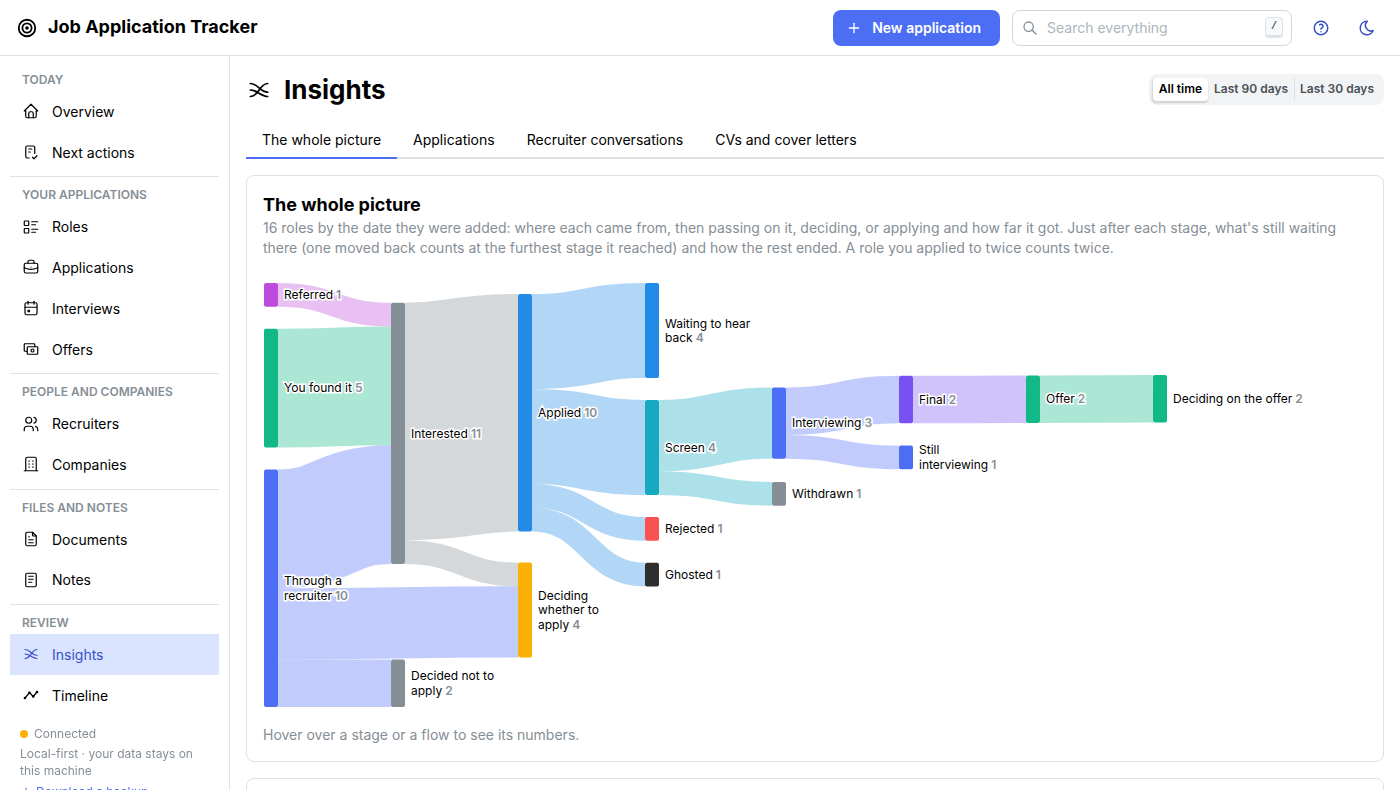
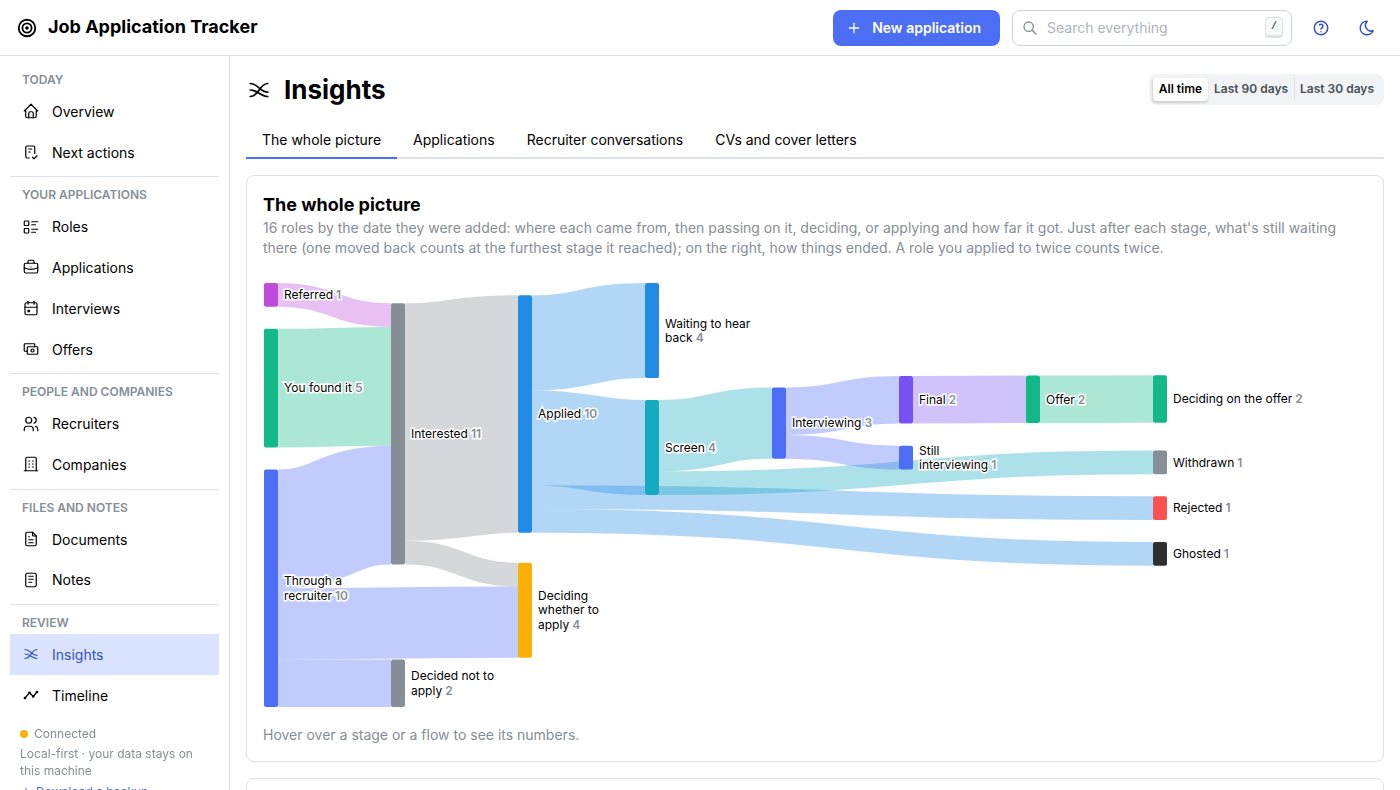
fix(insights): outcomes on the right, untangled once per diagram
Kai: "withdrawn could happen after any stage after applied ... so
perhaps that should be further out to the right". How things ended lines
up on the right again (what's waiting, and Decided not to apply, stay just
after their stage); the crossing search, which also counts flows running
through a stage, routes the long flows round the stages in between.

Review fixes: the search runs once per diagram at a nominal size (not on
every resize), tries every order only up to four nodes, and stops at 300
layouts; wrap counts the count when fitting; docs say "usually" where
the layout decides; tests for untangle, orderings, shape and wrap edges.

diff --git a/frontend/src/components/SankeyChart.tsx b/frontend/src/components/SankeyChart.tsx
@@ -16,7 +16,7 @@ const ROW_SPACE = 64; // height per node in the busiest column, so small nodes a
 const CHAR_WIDTH = 6.6; // roughly, at 12px
 
 /** How many columns the diagram has (the longest chain of links, plus one), and the most nodes in one. */
-function shape(flow: Flow): { columns: number; busiest: number } {
+export function shape(flow: Flow): { columns: number; busiest: number } {
   const depth = new Map(flow.nodes.map((n) => [n.id, 0]));
   for (let i = 0; i < flow.nodes.length; i++) {
     for (const l of flow.links)
@@ -27,16 +27,18 @@ function shape(flow: Flow): { columns: number; busiest: number } {
   return { columns: Math.max(0, ...depth.values()) + 1, busiest: Math.max(0, ...perColumn.values()) };
 }
 
-/** A label split into lines that fit in `room` pixels (the count goes on the last line). */
+/** A label split into lines that fit in `room` pixels, the count on the last line with the last
+ * word (a single word too long for the room gets a line of its own and runs over). */
 export function wrap(name: string, count: number, room: number): string[] {
+  const words = name.split(" ").filter(Boolean);
+  words.push(`${words.pop() ?? ""} ${count}`.trim()); // the count never sits alone
   const lines: string[] = [];
-  for (const word of name.split(" ")) {
+  for (const word of words) {
     const last = lines.at(-1);
     if (last !== undefined && (last.length + 1 + word.length) * CHAR_WIDTH <= room)
       lines[lines.length - 1] = `${last} ${word}`;
     else lines.push(word);
   }
-  lines[lines.length - 1] += ` ${count}`; // the count stays with the last word
   return lines;
 }
 
@@ -77,9 +79,9 @@ export function tangle(layout: Layout): number {
   return score;
 }
 
-/** Every ordering of a few items; for more, each one swapped with its neighbour. */
-function orderings<T>(items: T[]): T[][] {
-  if (items.length > 5) {
+/** Every ordering of up to four items; for more, each one swapped with its neighbour. */
+export function orderings<T>(items: T[]): T[][] {
+  if (items.length > 4) {
     return items.slice(1).map((_, i) => {
       const swapped = [...items];
       [swapped[i], swapped[i + 1]] = [swapped[i + 1]!, swapped[i]!];
@@ -92,32 +94,71 @@ function orderings<T>(items: T[]): T[][] {
   );
 }
 
+const MAX_LAYOUTS = 300; // the search stops here: a few hundred layouts take a blink
+
 /**
- * The least tangled layout we can find: starting from d3's own, try each column's nodes in
- * every order (a few sweeps across the columns), keeping whichever crosses least.
+ * The order of nodes in each column that tangles least, as far as we can find: starting from
+ * d3's own layout, try each column's nodes in other orders (a few sweeps across the columns),
+ * keeping whichever crosses least. Undefined if d3's own can't be beaten.
  */
-function untangle(build: (order?: Map<string, number>) => Layout): Layout {
-  let best = build();
-  let bestScore = tangle(best);
+export function untangle(build: (order?: Map<string, number>) => Layout): Map<string, number> | undefined {
+  const first = build();
+  let bestScore = tangle(first);
+  let best: Map<string, number> | undefined;
+  let tries = 1;
   const columns = new Map<number, string[]>();
-  for (const n of [...best.nodes].sort((a, b) => (a.y0 ?? 0) - (b.y0 ?? 0)))
+  for (const n of [...first.nodes].sort((a, b) => (a.y0 ?? 0) - (b.y0 ?? 0)))
     columns.set(Math.round(n.x0 ?? 0), [...(columns.get(Math.round(n.x0 ?? 0)) ?? []), n.id]);
   const orderOf = () => new Map([...columns.values()].flatMap((ids) => ids.map((id, i) => [id, i] as const)));
   for (let sweep = 0; sweep < 3 && bestScore > 0; sweep++) {
     let improved = false;
-    for (const [layer, ids] of [...columns]) {
+    // Left to right.
+    for (const [layer, ids] of [...columns].sort(([a], [b]) => a - b)) {
       let keep = ids;
       for (const candidate of orderings(ids)) {
+        if (tries++ >= MAX_LAYOUTS) break;
         columns.set(layer, candidate);
-        const layout = build(orderOf());
-        const score = tangle(layout);
-        if (score < bestScore) [best, bestScore, keep, improved] = [layout, score, candidate, true];
+        const order = orderOf();
+        const score = tangle(build(order));
+        if (score < bestScore) [best, bestScore, keep, improved] = [order, score, candidate, true];
       }
       columns.set(layer, keep);
     }
     if (!improved) break;
   }
   return best;
+}
+
+/** How things ended: a node nothing flows on from that isn't an active stage, somewhere things
+ * are waiting, or a role you decided against (that's a choice before applying, beside Deciding). */
+function endsOnTheRight(n: FlowNode & { sourceLinks?: unknown[] }): boolean {
+  return n.kind !== "active" && n.kind !== "holding" && n.id !== "passed" && !n.sourceLinks?.length;
+}
+
+/** The diagram laid out in `width` by `height`, in d3's own order or the one given. */
+function layoutAt(flow: Flow, width: number, height: number, order?: Map<string, number>): Layout {
+  return (
+    sankey<FlowNode, FlowLink>()
+      .nodeId((n) => n.id)
+      .nodeWidth(14)
+      .nodePadding(22)
+      // Stages by how far along they are, and what's waiting (or a role you decided against) just
+      // after the stage it came from. How things ended (Rejected, Withdrawn, Accepted…) can follow
+      // any stage, so it lines up on the right, where every stage can reach it.
+      .nodeAlign((n, columns) => (endsOnTheRight(n) ? columns - 1 : (n.depth ?? 0)))
+      // Without an order, d3 moves nodes up and down to untangle the flows itself.
+      .nodeSort(order ? (a, b) => (order.get(a.id) ?? 0) - (order.get(b.id) ?? 0) : undefined)
+      .iterations(32)
+      .extent([
+        [1, 8],
+        [width - LABEL_SPACE, height - 8],
+      ])({
+      // d3 mutates what it's given. A node is as tall as the applications that reached it,
+      // including those still there, not just the ones that flowed through.
+      nodes: flow.nodes.map((n) => ({ ...n, fixedValue: n.reached })),
+      links: flow.links.map((l) => ({ ...l })),
+    })
+  );
 }
 
 const colour = (name: string) => `var(--mantine-color-${name}-6)`;
@@ -157,30 +198,13 @@ export function SankeyChart({
   const height = Math.max(HEIGHT, busiest * ROW_SPACE);
   const [hover, setHover] = useState<string | null>(null);
 
-  const layout = useMemo(() => {
-    const build = (order?: Map<string, number>) =>
-      sankey<FlowNode, FlowLink>()
-        .nodeId((n) => n.id)
-        .nodeWidth(14)
-        .nodePadding(22)
-        // Every node one column after the furthest thing that leads to it: stages by how far
-        // along they are, and what's waiting or how it ended just after the stage it came from
-        // (Rejected from Applied beside Interviewing, not across it on the right edge).
-        .nodeAlign((n) => n.depth ?? 0)
-        // Without an order, d3 moves nodes up and down to untangle the flows itself.
-        .nodeSort(order ? (a, b) => (order.get(a.id) ?? 0) - (order.get(b.id) ?? 0) : undefined)
-        .iterations(32)
-        .extent([
-          [1, 8],
-          [width - LABEL_SPACE, height - 8],
-        ])({
-        // d3 mutates what it's given. A node is as tall as the applications that reached it,
-        // including those still there, not just the ones that flowed through.
-        nodes: flow.nodes.map((n) => ({ ...n, fixedValue: n.reached })),
-        links: flow.links.map((l) => ({ ...l })),
-      });
-    return untangle(build);
-  }, [flow, width, height]);
+  // The search for the least tangled order runs once per diagram, at a typical size (the order
+  // hardly depends on width), so resizing the window only lays it out again.
+  const order = useMemo(() => {
+    const nominal = Math.max(900, columns * 160 + LABEL_SPACE);
+    return untangle((o) => layoutAt(flow, nominal, height, o));
+  }, [flow, columns, height]);
+  const layout = useMemo(() => layoutAt(flow, width, height, order), [flow, width, height, order]);
 
   const path = sankeyLinkHorizontal();
   const hoveredLink = layout.links.find((l) => linkKey(l) === hover);

diff --git a/frontend/src/components/SankeyChart.test.tsx b/frontend/src/components/SankeyChart.test.tsx
@@ -1,6 +1,6 @@
 import { describe, expect, it } from "vitest";
 
-import { tangle, wrap } from "./SankeyChart";
+import { orderings, shape, tangle, untangle, wrap } from "./SankeyChart";
 
 // Two nodes on the left (a above b), two on the right (c above d), joined by two links.
 const node = (id: string, x0: number, y0: number) => ({ id, x0, x1: x0 + 10, y0, y1: y0 + 20, value: 1 });
@@ -38,5 +38,68 @@ describe("wrap", () => {
   it("wraps a long label, keeping the count with the last word", () => {
     expect(wrap("Deciding whether to apply", 4, 110)).toEqual(["Deciding whether", "to apply 4"]);
     expect(wrap("Still interviewing", 1, 100)).toEqual(["Still", "interviewing 1"]);
+  });
+
+  it("counts the count when fitting the last line", () => {
+    // "hear back" fits in 70px (9 characters), "hear back 12" doesn't.
+    expect(wrap("Waiting to hear back", 12, 70)).toEqual(["Waiting to", "hear", "back 12"]);
+  });
+
+  it("copes with a word too long for the room, or no room at all", () => {
+    expect(wrap("Interviewing", 3, 20)).toEqual(["Interviewing 3"]);
+    expect(wrap("Still at Phone", 2, 0)).toEqual(["Still", "at", "Phone 2"]);
+  });
+});
+
+describe("orderings", () => {
+  it("tries every order of a few nodes", () => {
+    expect(orderings(["a", "b", "c"])).toHaveLength(6);
+    expect(orderings(["a"])).toEqual([["a"]]);
+  });
+
+  it("swaps neighbours in a busy column, rather than trying every order", () => {
+    const six = ["a", "b", "c", "d", "e", "f"];
+    expect(orderings(six)).toHaveLength(5);
+    expect(orderings(six)[0]).toEqual(["b", "a", "c", "d", "e", "f"]);
+  });
+});
+
+describe("shape", () => {
+  it("counts columns along the longest chain, and the busiest one", () => {
+    const n = (id: string) => ({ id, name: id, kind: "active", color: "blue", reached: 1, current: 0 });
+    const flow = {
+      applications: 3,
+      nodes: ["a", "b", "c", "x", "y"].map(n),
+      links: [
+        { source: "a", target: "b", value: 1 },
+        { source: "b", target: "c", value: 1 },
+        { source: "a", target: "c", value: 1 }, // skips a column: c still sits after b
+        { source: "a", target: "x", value: 1 },
+        { source: "a", target: "y", value: 1 },
+      ],
+    };
+    expect(shape(flow)).toEqual({ columns: 3, busiest: 3 }); // b, x and y share the second column
+  });
+});
+
+describe("untangle", () => {
+  // Built crossed (a→d, b→c) unless the order puts d above c.
+  const [a, b] = [node("a", 0, 0), node("b", 0, 100)];
+  const layoutWith = (dOnTop: boolean) => {
+    const [c, d] = dOnTop
+      ? [node("c", 200, 100), node("d", 200, 0)]
+      : [node("c", 200, 0), node("d", 200, 100)];
+    return { nodes: [a, b, c, d], links: [link(a, d), link(b, c)] } as never;
+  };
+
+  it("finds the order of a column that stops two flows crossing", () => {
+    const order = untangle((o) => layoutWith(o !== undefined && o.get("d")! < o.get("c")!));
+    expect(order).toBeDefined();
+    expect(order!.get("d")!).toBeLessThan(order!.get("c")!);
+    expect(tangle(layoutWith(true))).toBe(0);
+  });
+
+  it("keeps d3's own layout when nothing crosses", () => {
+    expect(untangle(() => layoutWith(true))).toBeUndefined();
   });
 });

diff --git a/frontend/src/components/WholePicture.tsx b/frontend/src/components/WholePicture.tsx
@@ -18,8 +18,8 @@ export function WholePicture({ since }: { since?: string }) {
       <Text size="sm" c="dimmed" mb="md">
         {flow ? roles(flow.applications) : "…"} by the date they were added: where each came from, then
         passing on it, deciding, or applying and how far it got. Just after each stage, what's still waiting
-        there (one moved back counts at the furthest stage it reached) and how the rest ended. A role you
-        applied to twice counts twice.
+        there (one moved back counts at the furthest stage it reached); on the right, how things ended. A role
+        you applied to twice counts twice.
       </Text>
       {isLoading ? (
         <Loader />

diff --git a/src/jat/api/insights.py b/src/jat/api/insights.py
@@ -379,8 +379,8 @@ def _tally(t: conv_svc.Tally) -> dict:
 
 def _role_flow(t: conv_svc.Tally) -> FlowOut:
     """Pitched roles as a Sankey diagram: pitched, then applied / deciding / decided not to apply,
-    then outcomes. Deciding and in progress are where things wait, next to Applied and above the
-    outcomes, as in the other diagrams."""
+    then outcomes. Deciding and in progress are where things wait, and decided not to apply sits
+    with deciding (the chart places them just after what leads to them, usually beside Applied)."""
     nodes = [
         ("pitched", "Pitched to you", "active", "indigo", t.pitched),
         ("deciding", "Deciding whether to apply", "holding", "yellow", t.deciding),

diff --git a/docs/guide/using-the-app.md b/docs/guide/using-the-app.md
@@ -497,10 +497,9 @@ role, from where it came from to where it is now.
   it** (anything else).
 - Then roles you passed on go to **Decided not to apply**, roles with no application yet to
   **Deciding whether to apply**, and applications through their stages from *Interested*.
-- From each stage, what's still waiting there and how the rest ended (Rejected, Ghosted,
-  Accepted…), each just after the stage it came from: *Deciding whether to apply* usually
-  sits beside *Applied*, and *Rejected* after *Applied* sits beside *Screen* rather than across
-  the whole diagram.
+- From each stage, a spur to what's still waiting there, just after the stage (*Deciding
+  whether to apply* and *Decided not to apply* usually sit beside *Applied*). How things ended
+  (Rejected, Withdrawn, Ghosted, Accepted…) can follow any stage, so it lines up on the right.
 
 It counts roles and applications added in the date range; a role you applied to twice counts
 twice. As in *Where applications go*, an application moved back counts at the furthest stage it
@@ -513,9 +512,9 @@ reached.
   the applications still there are waiting: *Deciding whether to apply* (Interested, if your
   first stage comes before Applied), *Waiting to hear back* (Applied), *Still screening*, *Still
   interviewing*, *In final rounds*, *Deciding on the offer*, or *Still at …* for stages of your
-  own. These, and how things ended, sit just after the stage they came from, and the diagram
-  arranges each column to cross as few flows as it can. A label too long for the gap wraps; on
-  a narrow screen the diagram scrolls sideways.
+  own. These sit just after their stage; how things ended lines up on the right. The diagram
+  arranges each column so flows cross each other, or run through a stage, as little as it can.
+  A label too long for the gap wraps; on a narrow screen the diagram scrolls sideways.
 - **Stage by stage**: how many reached each stage, how many moved on, and the median time
   spent there.
 - **Direct vs recruiter**: the share of each route's applications that got to each stage.
@@ -537,8 +536,8 @@ the role); roles you found yourself aren't counted here.
 - **Where pitched roles go**: a Sankey diagram from *Pitched to you* to *Applied*, *Decided
   not to apply* or *Deciding whether to apply*, and from *Applied* to *In progress*, *Offer*,
   *Closed* or *Ghosted* (a role's best application counts once). As in the other diagrams,
-  what's still waiting sits just after its stage: *Deciding whether to apply* above *Applied*,
-  *In progress* above the outcomes.
+  *Deciding whether to apply* and *Decided not to apply* sit beside *Applied*, and where
+  applications ended up on the right.
 - **Who you talk to**: per person or per agency, calls held, the last call, roles pitched,
   applied, passed, deciding, the apply rate, interviews, and where the applications went. A
   person you've marked *Ghosted* or *Not interested* says so.

diff --git a/CHANGELOG.md b/CHANGELOG.md
@@ -127,9 +127,9 @@ brackets are pull requests.
   (through a recruiter, referred, or you found it) to passed, deciding whether to apply, or its
   stages; both Sankeys end each stage with a spur to what's still waiting there (*Waiting to hear
   back*, *Still interviewing*, *Deciding on the offer*…) (#84), each just after its stage rather
-  than on the right edge (#85). Outcomes follow their stage too, each column is arranged to
-  cross as few flows as it can, long labels wrap, and Recruiter conversations works the same way;
-  roles you passed on read *Decided not to apply* in the diagrams (#86).
+  than on the right edge (#85). Each column is arranged so flows cross, or run through a stage,
+  as little as possible, long labels wrap, and Recruiter conversations works the same way;
+  roles you passed on read *Decided not to apply* in the diagrams, beside *Applied* (#86).
 - **Every application starts at Interested**: one added at *Applied* (or later) gets an
   *Interested* step a second before, so Insights shows every application flowing from
   *Interested*; existing applications are filled in by migration 0013 (#83).

diff --git a/README.md b/README.md
@@ -105,7 +105,7 @@ how far it got, with what's still waiting just after each stage: deciding whethe
 waiting to hear back, still interviewing, deciding on an offer. A second tab follows just
 applications, filtered by route. Date range and counts on hover for both.
 
-![Sankey diagram of a whole job search: roles through a recruiter, referred or found yourself, flowing through interested, applied, screen, interviewing, final and offer, to deciding whether to apply, waiting to hear back, still interviewing, deciding on the offer, rejected, withdrawn, ghosted and passed](docs/screenshots/insights.png)
+![Sankey diagram of a whole job search: roles through a recruiter, referred or found yourself, flowing through interested, applied, screen, interviewing, final and offer, to deciding whether to apply, waiting to hear back, still interviewing, deciding on the offer, decided not to apply, rejected, withdrawn and ghosted](docs/screenshots/insights.png)
 
 **Conversion, time in stage, direct vs recruiter, and a recruiter scorecard.** Which stages
 you get stuck at, whether agencies or direct applications do better for you, and which
